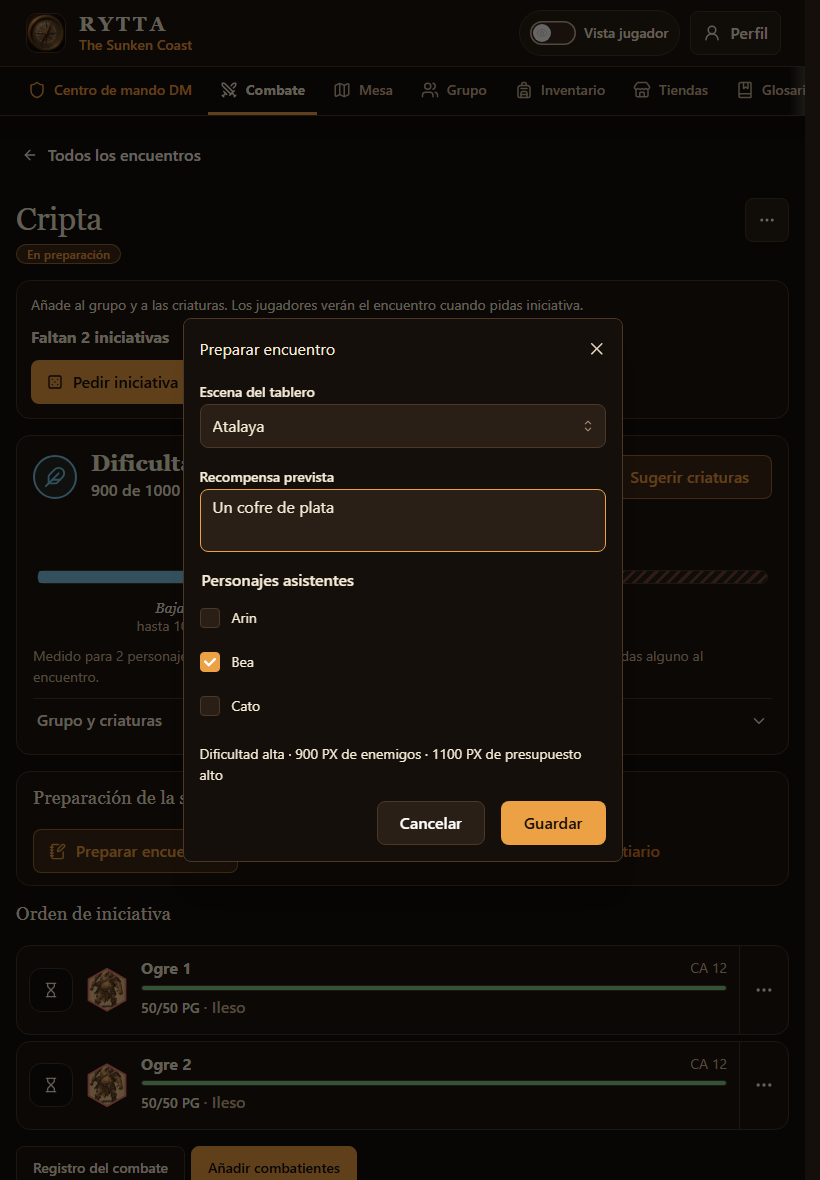
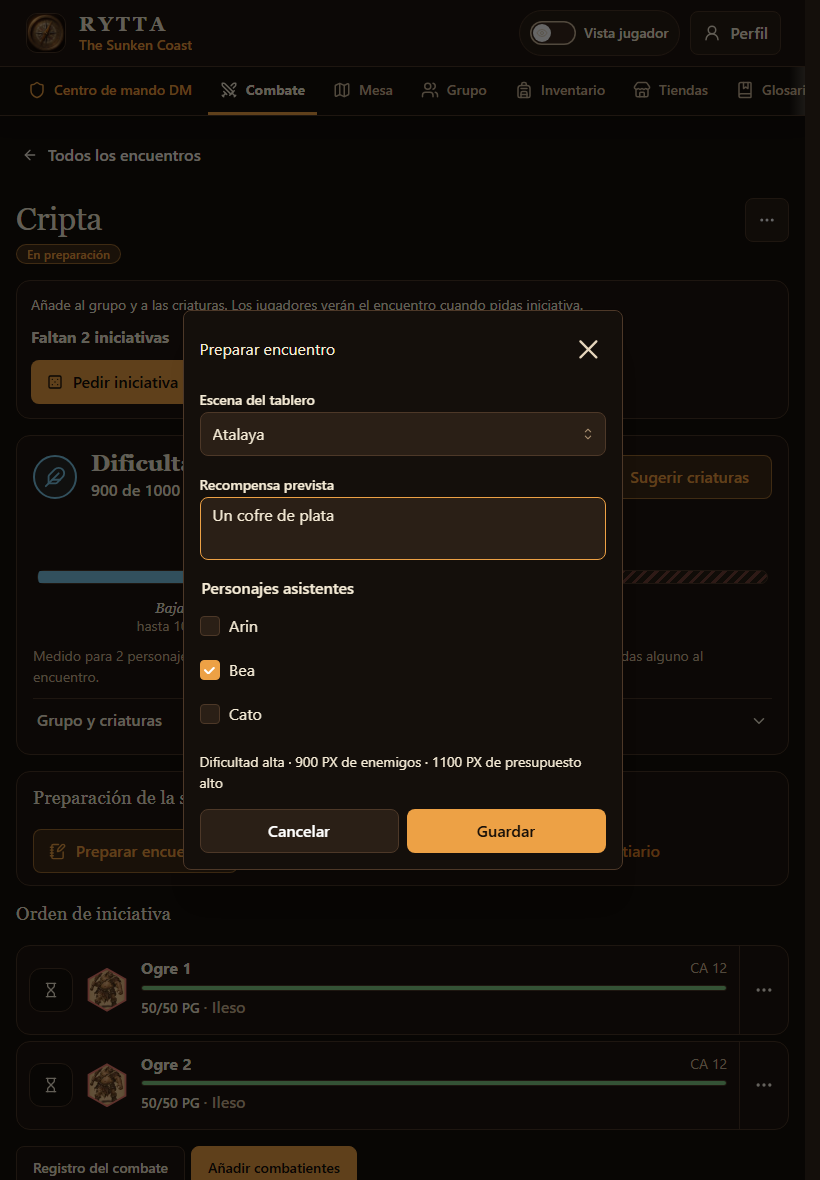
docs: record encounter review criteria and preparation captures

diff --git a/tests/e2e/encounter-builder.spec.ts b/tests/e2e/encounter-builder.spec.ts
@@ -419,7 +419,7 @@ test('RYT-145 links a draft, previews attendance, and opens an independent copy'
   )
 })
 
-test('RYT-145 preparation targets and focus remain usable at 150% text', async ({ page }) => {
+test('RYT-145 preparation targets and focus remain usable at 150% text', async ({ page }, info) => {
   await prepare(page)
   await page.addStyleTag({ content: 'html {font-size:150%}' })
   const prep = page.getByRole('region', { name: 'Preparación de la sesión' })
@@ -438,6 +438,10 @@ test('RYT-145 preparation targets and focus remain usable at 150% text', async (
       expect(bounds?.width).toBeGreaterThanOrEqual(44)
       expect(bounds?.height).toBeGreaterThanOrEqual(44)
     }
+    if (process.env.RYT_EVIDENCE && name === 'Preparar encuentro')
+      await page.screenshot({
+        path: `docs/evidence/RYT-145/preparation-150-${info.project.name}.png`,
+      })
     await page.keyboard.press('Escape')
     await expect(dialog).toBeHidden()
     await expect(trigger).toBeFocused()
